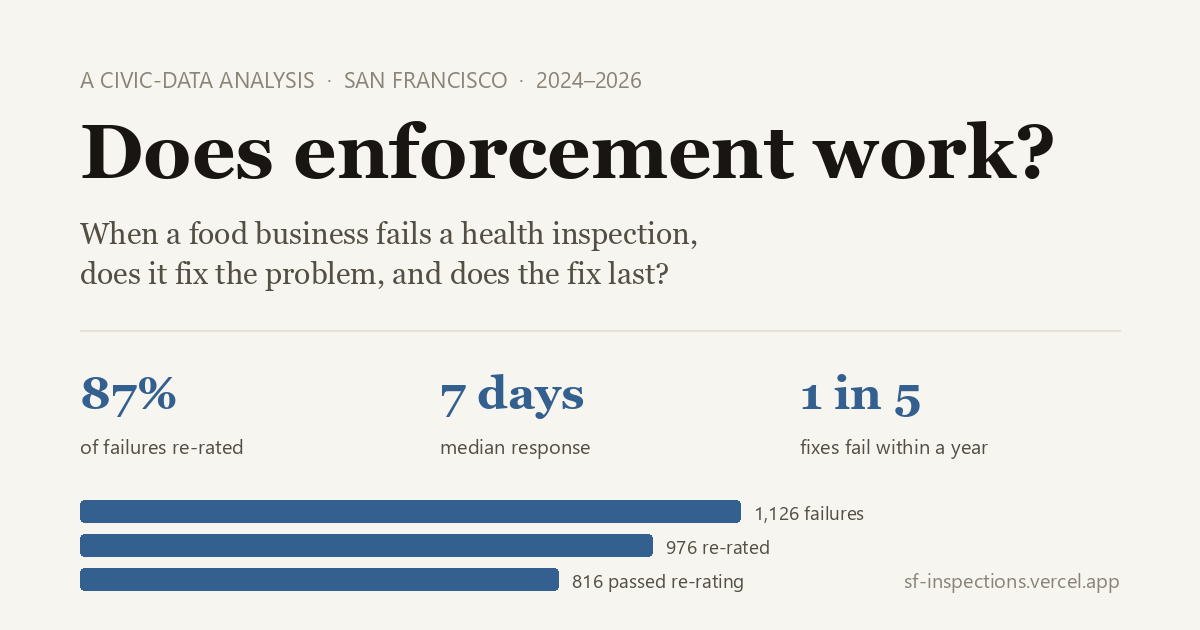
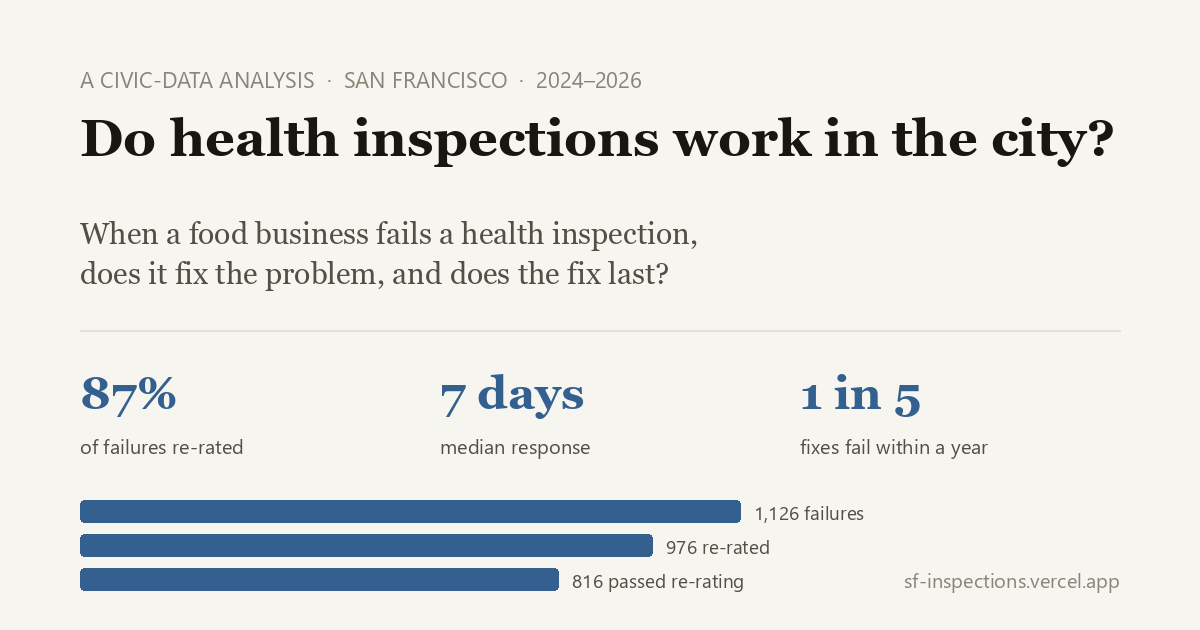
Headline: 'Do health inspections work in the city?' across site, OG card, README
Simpler and direct per reader feedback; 'the city' not 'the Bay' because the data covers San Francisco only. Social titles use the self-contained 'Do San Francisco's health inspections work?'

Claude-Session: https://claude.ai/code/session_01RWcTASnranyKi2EvZd6W6o

Changed region(s): [[0.0617, 0.181, 0.925, 0.3016]]

diff --git a/site/index.html b/site/index.html
@@ -1,20 +1,20 @@
-<!doctype html>
+<!doctype html>
 <html lang="en">
 <head>
 <meta charset="utf-8">
 <meta name="viewport" content="width=device-width, initial-scale=1">
-<title>SF Health Inspections: Does Enforcement Work?</title>
+<title>Do Health Inspections Work? San Francisco, 2024-present</title>
 <meta name="description" content="San Francisco food facility inspections 2024-present: enforcement response, outcomes, and durability.">
 <meta property="og:type" content="website">
 <meta property="og:site_name" content="SF Health Inspections">
-<meta property="og:title" content="Does enforcement work? SF health inspections, 2024-present">
+<meta property="og:title" content="Do San Francisco's health inspections work?">
 <meta property="og:description" content="When a food business fails a health inspection, does it fix the problem, and does the fix last? 87% of failures re-rated, median 7 days; 1 in 5 fixes fails within a year.">
 <meta property="og:url" content="https://sf-inspections.vercel.app/">
 <meta property="og:image" content="https://sf-inspections.vercel.app/og.png">
 <meta property="og:image:width" content="1200">
 <meta property="og:image:height" content="630">
 <meta name="twitter:card" content="summary_large_image">
-<meta name="twitter:title" content="Does enforcement work? SF health inspections, 2024-present">
+<meta name="twitter:title" content="Do San Francisco's health inspections work?">
 <meta name="twitter:description" content="When a food business fails a health inspection, does it fix the problem, and does the fix last?">
 <meta name="twitter:image" content="https://sf-inspections.vercel.app/og.png">
 <link rel="stylesheet" href="style.css">
@@ -33,7 +33,7 @@
 <main class="page" id="top">
   <header class="masthead">
     <p class="kicker">A civic-data analysis &middot; San Francisco<span id="window-note"></span></p>
-    <h1>Does enforcement work?</h1>
+    <h1>Do health inspections work in the city?</h1>
     <p class="dek">When a food business fails a health inspection or is shut down, does it fix the problem, and does the fix last? <span class="dek-stats" id="dek-stats"></span></p>
     <p class="meta"><a href="/report">Read the findings report</a> &middot; <a href="/methodology">Methodology</a> &middot; <a href="#glossary">Glossary</a></p>
   </header>
@@ -149,7 +149,7 @@
     <p class="ck">Part 5 &middot; Look it up</p>
     <figure class="card wide" id="card-lookup">
       <figcaption><h2>Facility lookup</h2></figcaption>
-      <p class="note">Type in the search bar at the top of the page; matching facilities and their full inspection history appear here. Yelp star ratings (★) are shown where collected: every facility with enforcement history, plus a comparison sample.</p>
+      <p class="note">Type in the search bar at the top of the page; matching facilities and their full inspection history appear here. Yelp star ratings (â˜…) are shown where collected: every facility with enforcement history, plus a comparison sample.</p>
       <div id="search-results" class="search-results" role="listbox"></div>
       <div id="facility-detail" class="facility-detail" hidden></div>
       <h3 class="list-head" id="list-head"></h3>

diff --git a/site/report.html b/site/report.html
@@ -1,20 +1,20 @@
-<!doctype html>
+<!doctype html>
 <html lang="en">
 <head>
 <meta charset="utf-8">
 <meta name="viewport" content="width=device-width, initial-scale=1">
-<title>Does enforcement work? SF health inspections, 2024-2026</title>
+<title>Do health inspections work? The findings. San Francisco, 2024-2026</title>
 <meta name="description" content="Findings: how San Francisco food-safety enforcement responds, whether facilities improve, and whether improvement holds.">
 <meta property="og:type" content="article">
 <meta property="og:site_name" content="SF Health Inspections">
-<meta property="og:title" content="Does enforcement work? The findings">
+<meta property="og:title" content="Do San Francisco's health inspections work? The findings">
 <meta property="og:description" content="How San Francisco food-safety enforcement responds, whether facilities improve, and whether improvement holds.">
 <meta property="og:url" content="https://sf-inspections.vercel.app/report">
 <meta property="og:image" content="https://sf-inspections.vercel.app/og.png">
 <meta property="og:image:width" content="1200">
 <meta property="og:image:height" content="630">
 <meta name="twitter:card" content="summary_large_image">
-<meta name="twitter:title" content="Does enforcement work? The findings">
+<meta name="twitter:title" content="Do San Francisco's health inspections work? The findings">
 <meta name="twitter:description" content="How San Francisco food-safety enforcement responds, whether facilities improve, and whether improvement holds.">
 <meta name="twitter:image" content="https://sf-inspections.vercel.app/og.png">
 <link rel="stylesheet" href="style.css">
@@ -38,11 +38,11 @@
 <div class="page prose">
   <header class="masthead">
     <div>
-      <h1>Does enforcement work?</h1>
+      <h1>Do health inspections work in the city?</h1>
       <p class="sub">San Francisco food-facility health inspections, January 2024 to July 2026.
         <a href="/">Interactive dashboard</a> &middot; <a href="/methodology">Methodology</a></p>
     </div>
-    <button id="theme-toggle" class="ghost-btn" aria-label="Toggle color theme">◐</button>
+    <button id="theme-toggle" class="ghost-btn" aria-label="Toggle color theme">â—</button>
   </header>
 
   <p>When San Francisco's health department flags a food facility with a

diff --git a/README.md b/README.md
@@ -1,4 +1,4 @@
-# SF Health Inspections: does enforcement work?
+# SF Health Inspections: do health inspections work?
 
 When a San Francisco food facility fails a health inspection or is closed,
 does it improve, and does the improvement hold? This repo is the full
